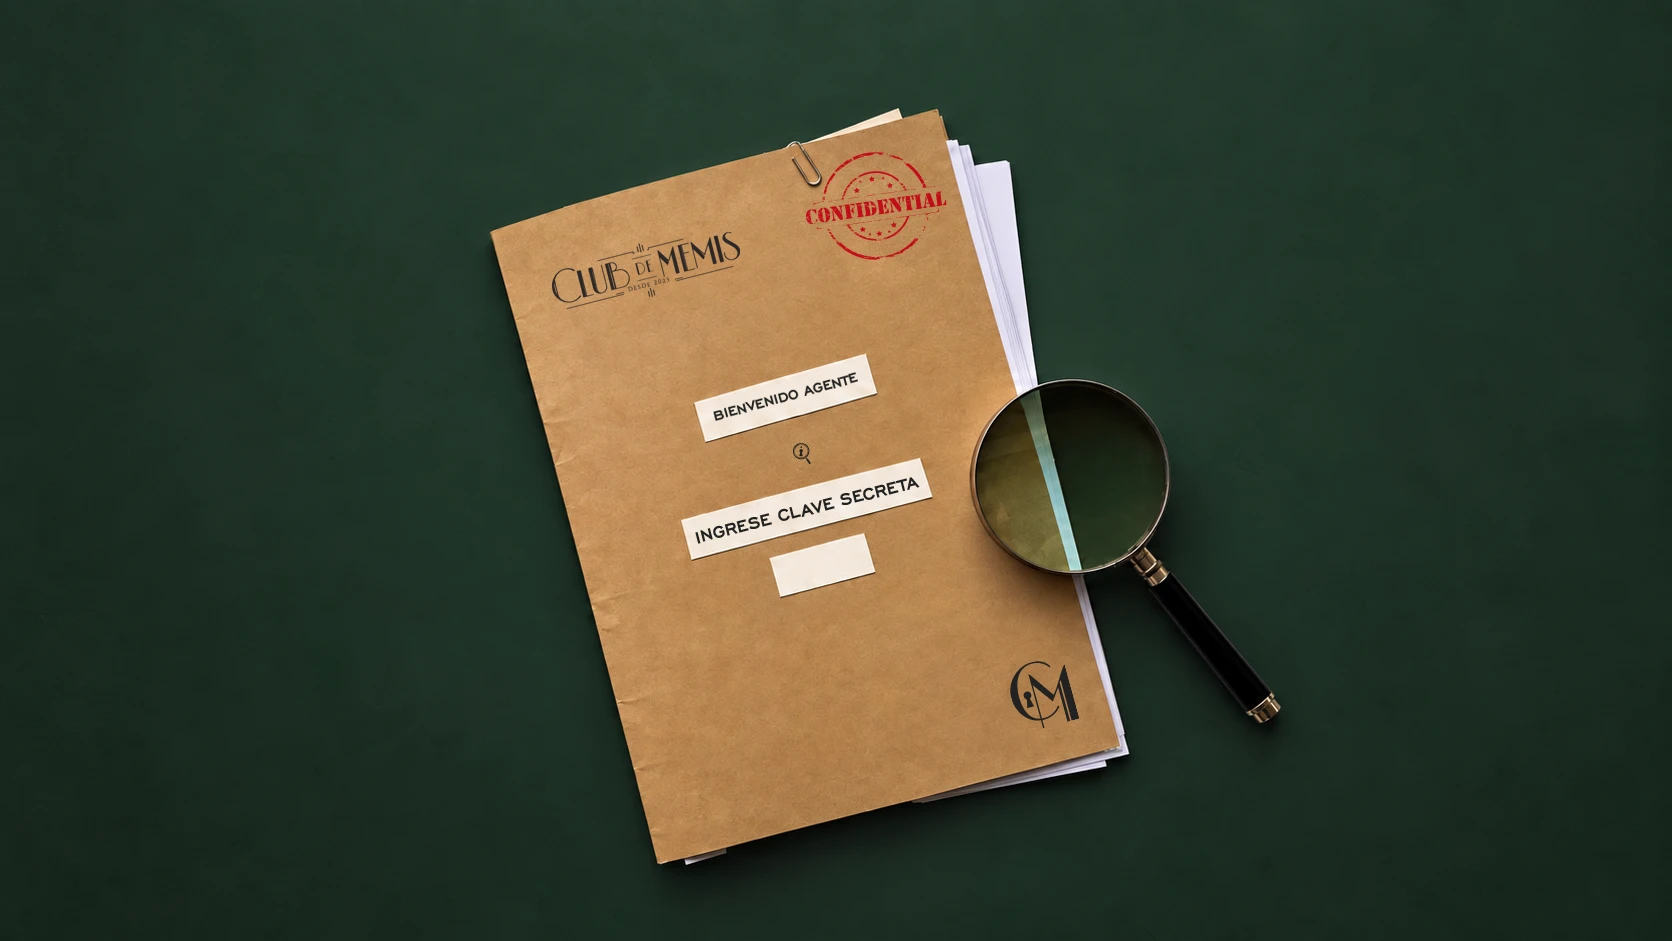
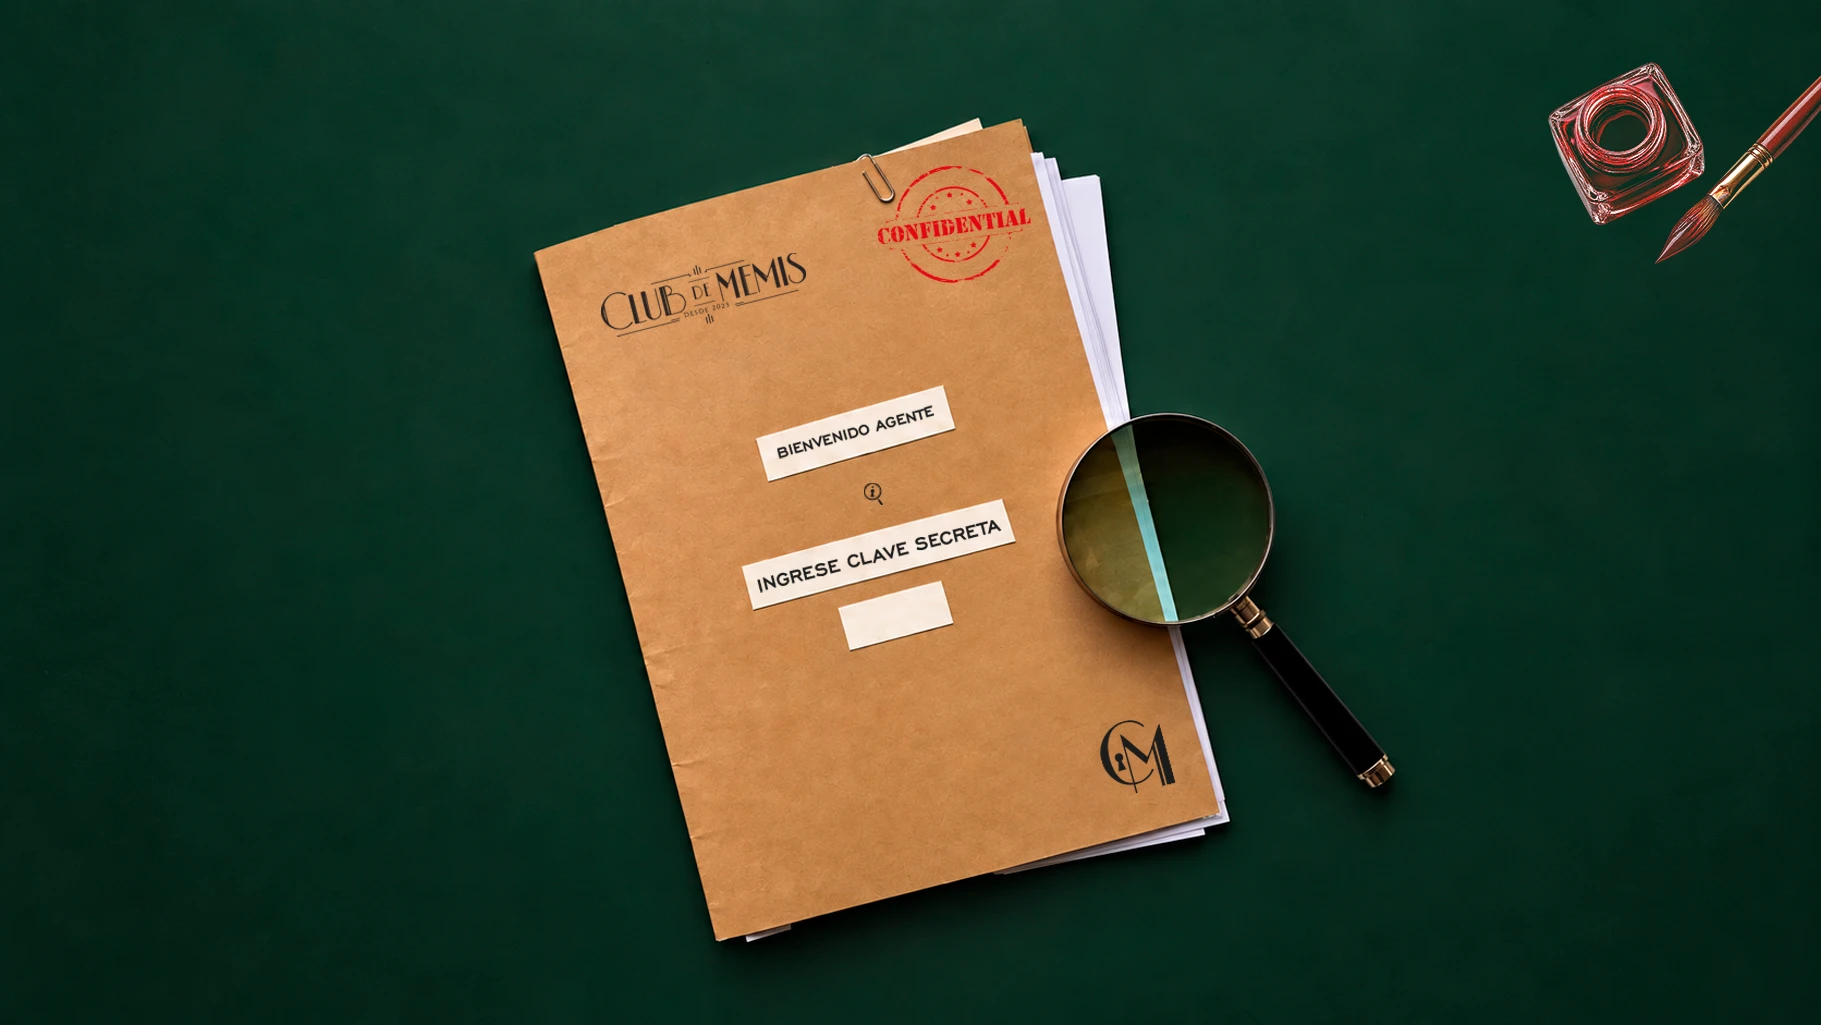
Portada nueva con el tintero y el pincel
Se reemplaza fondo.webp por la versión nueva (misma proporción, un poco
más grande) y el color de fondo de la página se ajusta al verde nuevo,
para que en el celular los bordes se sigan fundiendo sin corte.

Claude-Session: https://claude.ai/code/session_01PjErJGKyceeakWB5aqhV63

diff --git a/public/index.html b/public/index.html
@@ -16,7 +16,7 @@
       margin: 0;
       height: 100%;
       overflow: hidden;
-      background: radial-gradient(ellipse at 50% 50%, #233a2c, #172a1f 75%);
+      background: radial-gradient(ellipse at 50% 50%, #0e3728, #042318 75%);
     }
 
     /* La imagen cubre la pantalla como "cover"; todo lo que va encima se
@@ -25,8 +25,8 @@
       position: absolute;
       left: 50%;
       top: 50%;
-      width: max(100vw, calc(100vh * 1672 / 941));
-      aspect-ratio: 1672 / 941;
+      width: max(100vw, calc(100vh * 1821 / 1025));
+      aspect-ratio: 1821 / 1025;
       transform: translate(-50%, -50%);
       background: url('/fondo.webp') center / 100% 100% no-repeat;
       container-type: inline-size;
